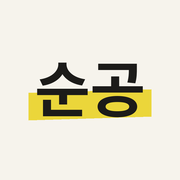
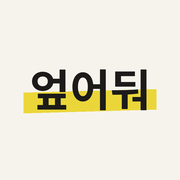
앱 이름을 엎어둬로 변경
Claude-Session: https://claude.ai/code/session_0116YS1hhefs19ytcMnY4JGJ

Changed region(s): [[0.1111, 0.3333, 0.8889, 0.6944]]

diff --git a/app.js b/app.js
@@ -279,7 +279,7 @@ function settingsForm(d) {
 
 VIEWS.onboard = () => `
   <div class="screen">
-    <span class="brand">순공</span>
+    <span class="brand">엎어둬</span>
     <h1>몇 가지만 정하면<br>바로 시작해요</h1>
     ${settingsForm(draft())}
     <div style="margin-top:32px"><button class="btn dark" data-act="onboardNext">다음</button></div>
@@ -289,18 +289,18 @@ VIEWS.guide = () => {
   const sa = standalone(), ios = isIOS();
   return `
   <div class="screen">
-    <span class="brand">순공</span>
+    <span class="brand">엎어둬</span>
     <h1>폰 유혹부터<br>막고 시작해요</h1>
-    <p class="muted" style="font-size:15px;line-height:1.6;margin:12px 0 0">순공은 시간만 재요. 다른 앱은 잠글시간으로 잠그고 순공만 열어 두는 방식이에요.</p>
+    <p class="muted" style="font-size:15px;line-height:1.6;margin:12px 0 0">엎어둬는 시간만 재요. 다른 앱은 잠글시간으로 잠그고 엎어둬만 열어 두는 방식이에요.</p>
     <ol class="steps">
-      <li class="${sa ? 'done' : ''}"><b>순공을 홈 화면에 추가</b>
+      <li class="${sa ? 'done' : ''}"><b>엎어둬를 홈 화면에 추가</b>
         <span class="how">${sa ? '완료했어요.' : ios ? '사파리 아래쪽 공유 버튼을 누르고 홈 화면에 추가를 고르세요.' : '크롬 오른쪽 위 메뉴에서 홈 화면에 추가를 고르세요.'}</span></li>
       <li><b>잠글시간 설치</b>
         <span class="how">${ios ? `<a href="${LOCK_APP_URL}" target="_blank" rel="noopener">앱스토어에서 받기</a>` : '갤럭시는 설정 → 디지털 웰빙 → 집중 모드를 써도 돼요.'}</span></li>
-      <li><b>순공만 빼고 잠그기</b>
-        <span class="how">잠글시간에서 잠글 때 허용할 앱에 홈 화면의 '순공'을 넣어 두세요.</span></li>
+      <li><b>엎어둬만 빼고 잠그기</b>
+        <span class="how">잠글시간에서 잠글 때 허용할 앱에 홈 화면의 '엎어둬'를 넣어 두세요.</span></li>
       <li><b>공부할 때마다</b>
-        <span class="how">잠글시간으로 잠그기 → 순공에서 시작 → 폰을 엎어 두기. 폰을 집으면 시간이 멈춰요.</span></li>
+        <span class="how">잠글시간으로 잠그기 → 엎어둬에서 시작 → 폰을 엎어 두기. 폰을 집으면 시간이 멈춰요.</span></li>
     </ol>
     <div style="margin-top:auto;padding-top:16px"><button class="btn dark" data-act="guideDone">알겠어요</button></div>
   </div>`;
@@ -316,8 +316,8 @@ VIEWS.home = () => {
   const closed = !!db.closed[k];
   return `
   <div class="screen with-nav">
-    <div class="row"><span class="brand">순공</span><span class="date">${dateLabel(k)}${dd ? ` · <span class="mark">${esc(dd)}</span>` : ''}</span></div>
-    ${standalone() ? '' : `<button class="banner" data-act="go" data-arg="guide">홈 화면에 추가해야 잠글시간에서 순공만 뺄 수 있어요. 방법 보기</button>`}
+    <div class="row"><span class="brand">엎어둬</span><span class="date">${dateLabel(k)}${dd ? ` · <span class="mark">${esc(dd)}</span>` : ''}</span></div>
+    ${standalone() ? '' : `<button class="banner" data-act="go" data-arg="guide">홈 화면에 추가해야 잠글시간에서 엎어둬만 뺄 수 있어요. 방법 보기</button>`}
     <p class="label" style="margin-top:32px">오늘 순공</p>
     <div class="big">${hms(st.study)}</div>
     <div class="bar"><i style="width:${pct}%"></i></div>
@@ -590,7 +590,7 @@ function rng(seed) {
 
 async function drawCard(transparent) {
   const lines = receiptLines();
-  const foot = '순공 · 폰 엎어 둔 시간만 셉니다';
+  const foot = '엎어둬 · 폰을 엎어 둔 시간만 셉니다';
   await fontsReady(lines.map(x => (x.l || '') + (x.r || '')).join('') + foot + '0123456789:.%·…');
   const W = 1080, H = 1920, RW = 760, X = (W - RW) / 2, P = 60;
   const hOf = x => x.t === 'title' ? 100 : x.t === 'dash' ? 44 : x.t === 'barcode' ? 140 : 62;
@@ -752,7 +752,7 @@ const ACTIONS = {
   shareCard: async () => {
     const blob = ui.cardBlob;
     if (!blob) return toast('카드를 만드는 중이에요. 잠시 뒤에 다시 눌러 주세요.');
-    const file = new File([blob], `sungong-${dayKey()}.png`, { type: 'image/png' });
+    const file = new File([blob], `eopeodwo-${dayKey()}.png`, { type: 'image/png' });
     try {
       if (navigator.canShare && navigator.canShare({ files: [file] })) await navigator.share({ files: [file] });
       else { downloadBlob(blob, file.name); toast('이미지를 저장했어요. 인스타에서 불러와 주세요.'); }

diff --git a/index.html b/index.html
@@ -3,12 +3,12 @@
 <head>
 <meta charset="utf-8">
 <meta name="viewport" content="width=device-width,initial-scale=1,viewport-fit=cover">
-<title>순공</title>
-<meta name="description" content="폰 엎어 둔 시간만 세는 순공 타이머">
+<title>엎어둬</title>
+<meta name="description" content="폰을 엎어 둔 시간만 세는 순공 타이머">
 <meta name="theme-color" content="#F6F3EC">
 <meta name="apple-mobile-web-app-capable" content="yes">
 <meta name="mobile-web-app-capable" content="yes">
-<meta name="apple-mobile-web-app-title" content="순공">
+<meta name="apple-mobile-web-app-title" content="엎어둬">
 <meta name="apple-mobile-web-app-status-bar-style" content="default">
 <link rel="manifest" href="manifest.webmanifest">
 <link rel="apple-touch-icon" href="icons/icon-180.png">

diff --git a/sw.js b/sw.js
@@ -1,5 +1,5 @@
 // 앱 파일은 네트워크 우선(새 버전이 바로 반영되게), 글꼴은 캐시 우선
-const CACHE = 'sungong-v1';
+const CACHE = 'eopeodwo-v2';
 const CORE = ['./', 'index.html', 'style.css', 'app.js', 'manifest.webmanifest', 'icons/icon-180.png', 'icons/icon-192.png'];
 
 self.addEventListener('install', e => {

diff --git a/README.md b/README.md
@@ -1,11 +1,11 @@
-# 순공
+# 엎어둬
 
 폰을 엎어 둔 시간만 순공으로 세는 고등학생용 타이머 웹앱.
 
 https://choihs-ai.github.io/studytime/
 
 - 아이폰은 사파리에서 열고 공유 → 홈 화면에 추가
-- 다른 앱 잠금은 잠글시간 앱으로 하고, 순공만 허용 앱으로 둔다
+- 다른 앱 잠금은 잠글시간 앱으로 하고, 엎어둬만 허용 앱으로 둔다
 - 기록은 기기의 localStorage에만 저장된다. 서버 없음
 
 파일: `index.html` 화면 틀, `app.js` 전체 로직, `style.css`, `sw.js` 오프라인 캐시, `manifest.webmanifest`, `icons/`
